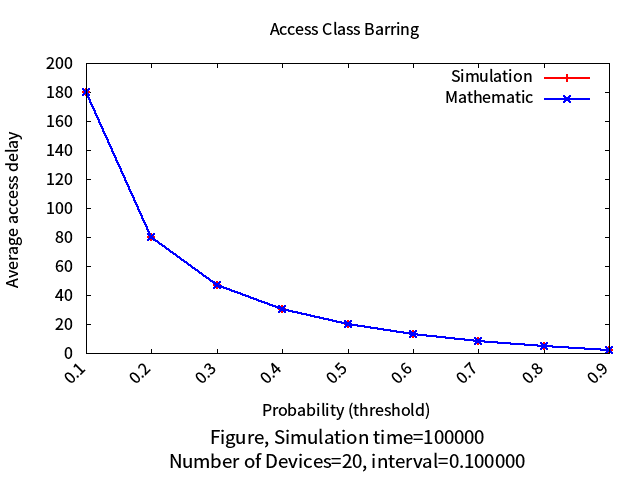
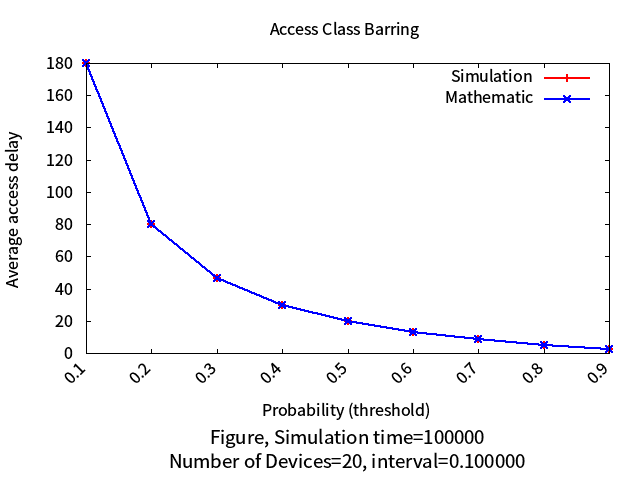
Add m2m complete version.
* Still need to enhance!

diff --git a/m2m/README.md b/m2m/README.md
@@ -8,9 +8,7 @@
     - [Part A: Access Class Barring](#part-a-access-class-barring)
         - [Technique Background](#technique-background)
         - [System Model](#system-model)
-            - [Mathematic Model](#mathematic-model)
         - [Simulation](#simulation)
-            - [Simulation Model](#simulation-model)
         - [Analysis](#analysis)
     - [Part B: Random Access](#part-b-random-access)
         - [Technique Background](#technique-background)
@@ -54,13 +52,28 @@ Base on this four method, we can easily define our question and find an efficien
 
 ### System Model 
 
-#### Mathematic Model
+Here we construct our mathematic model from technique background:
+
+* Before calculate access delay, consider:
+    * How many times do we need to complete this job? (All devices pass the access class barring)
+    * Find the worst case as upperbound.
+    * Then we can summation the result from best case to worse case.
+
+* Our upperbound is generated after running the simulation model( will mention later ), we use the worse case in simulation process as our worse case in mathematic model, so that the result can plot together in well organization.
 
 ### Simulation 
 
-#### Simulation Model
+In simulation part, I choose `probability "p"(threshold)` as observed value; Adjust this value to see the variation among different `p` value.
+
+In each `p` case, we run `s` times of simulation routine. Each routine will finish when all devices have passed the access class barring; and each routine will record its delay times at the end of routine. 
+
+After running `s` simulation routines, we can get an average access delay! We take this value as **access delay** of simulation. 
 
 ### Analysis 
+
+| case | simulation times  | $$Number\ of\ device$$ | $$P$$ | result |
+| ------------- | ------------- | ------------- | ------------- | ------------- |
+| 1 | 100000 | 20 | 0.1 | ![](image/part_a_100000_20_0.100000.png) |
 
 ---
 ## Part B: Random Access
@@ -79,9 +92,32 @@ Base on this four method, we can easily define our question and find an efficien
 
 Assume there have `M` devices (e.g. `UE` / `MTC device`), and `N` preamble.
 
+We can find the successful nodes from this paper. [ [2] ](#reference)
+
+$$u(n)=n (1-\frac{1}{p})^{n-1}$$
+
+$$\ n=number\ of \ devices,\ p=number\ of\ preamble$$
+
+And we can easily calculate the successful probability: 
+
+$$success\ probability = (1-\frac{1}{p})^{n-1}$$
+
+We take this as our mathematic model.
+
 ### Simulation 
 
+In simulation part, I choose `number of preamble` as observed value; Adjust this value to see the variation among different `preamble` value with specified `interval` to iterate, and in each `preamble` case, we run `s` times of simulation routine.
+
+Consider that we don't need to care about **"retransimisson"**, so in each simulation routine, we only need to calculate the success devices(which using unique preamble).
+
+And at the end of routine, using success devices to calculate **successful probability**.
+
 ### Analysis 
+
+| case | simulation times  | $$Number\ of\ device$$ | $$Preamble\ range$$ | result |
+| ------------- | ------------- | ------------- | ------------- | ------------- |
+| 1 | 10000 | 20 | 10 ~ 100 | ![](image/part_b_10000_20_10_100_10.png) |
+
 
 ---
 ## Reference
